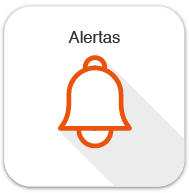
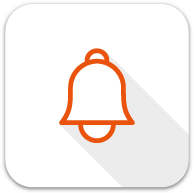
v1

diff --git a/www/css/styles.css b/www/css/styles.css
@@ -82,7 +82,7 @@ background: url("../img/fondo.png") no-repeat center center fixed; background-co
 .botones{ width:100%; text-align:center; }
 .botones div{ margin-top:15px;}
 
-.botones #destacado{background:url("../img/bdestacado.png") no-repeat;background-repeat:no-repeat;
+.botones #destacado{background:url("../img/bdestacadoport.png") no-repeat;background-repeat:no-repeat;
 background-size:100px;
 background-color:#fff;
 border-radius:20px;
@@ -90,7 +90,7 @@ border-radius:20px;
   width:100px;
   background-position:center;
   margin-right:5px;}
-.botones #aviso{ background:url("../img/baviso.png") no-repeat;background-repeat:no-repeat;
+.botones #aviso{ background:url("../img/bavisoport.png") no-repeat;background-repeat:no-repeat;
 background-size:100px;
 background-color:#fff;
 border-radius:20px;
@@ -98,7 +98,7 @@ border-radius:20px;
   width:100px;
   background-position:center;
   margin-right:5px;}
-.botones #cita{ background:url("../img/bcita.png") no-repeat;background-repeat:no-repeat;
+.botones #cita{ background:url("../img/bcitaport.png") no-repeat;background-repeat:no-repeat;
 background-size:100px;
 background-color:#fff;
 border-radius:20px;
@@ -106,7 +106,7 @@ border-radius:20px;
   width:100px;
   background-position:center;
   margin-left:5px;}
-.botones #favorito{ background:url("../img/bfavorito.png") no-repeat;background-repeat:no-repeat;
+.botones #favorito{ background:url("../img/bfavoritoport.png") no-repeat;background-repeat:no-repeat;
 background-size:100px;
 background-color:#fff;
 border-radius:20px;
